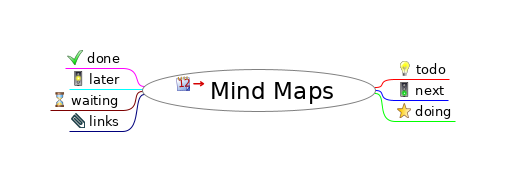
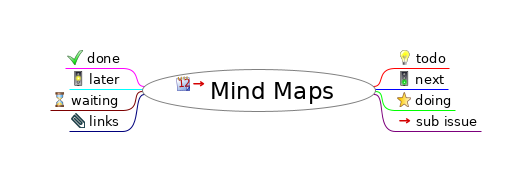
new mind map

Changed region(s): [[0.0891, 0.2762, 0.9208, 0.7459], [0.1188, 0.2762, 0.2376, 0.3591]]

diff --git a/index.html b/index.html
@@ -24,14 +24,15 @@
                };
           
           --></script></head><body><h1>Mind Maps</h1><div style="width:96%;  padding:2%;  margin-bottom:10px;  border: 0px;  text-align:center;  vertical-align:center;"><img src="index.html_files/image.png" style="margin-bottom:10px; &#9;border: 0px; &#9;text-align:center; &#9;vertical-align:center;" alt="Imagemap" usemap="#fm_imagemap" /></div><map name="fm_imagemap" id="fm_imagemap"><area shape="rect" href="#FMID_1894420573FM" alt="Mind Maps" title="Mind Maps" coords="142,69,376,112" />
-<area shape="rect" href="#FMID_359991860FM" alt="todo" title="todo" coords="395,61,449,79" />
-<area shape="rect" href="#FMID_1857399077FM" alt="next" title="next" coords="395,82,448,100" />
-<area shape="rect" href="#FMID_695904482FM" alt="doing" title="doing" coords="395,103,455,121" />
+<area shape="rect" href="#FMID_359991860FM" alt="todo" title="todo" coords="395,50,449,68" />
+<area shape="rect" href="#FMID_1857399077FM" alt="next" title="next" coords="395,71,448,89" />
+<area shape="rect" href="#FMID_695904482FM" alt="doing" title="doing" coords="395,92,455,110" />
+<area shape="rect" href="#FMID_902002559FM" alt="sub issue" title="sub issue" coords="395,113,481,131" />
 <area shape="rect" href="#FMID_433819245FM" alt="done" title="done" coords="65,50,123,68" />
 <area shape="rect" href="#FMID_848414105FM" alt="later" title="later" coords="69,71,123,89" />
 <area shape="rect" href="#FMID_1042692083FM" alt="waiting" title="waiting" coords="50,92,123,110" />
 <area shape="rect" href="#FMID_1823870673FM" alt="links" title="links" coords="69,113,123,131" />
 </map>
 
-<div class="node"><img src="index.html_files/hide.png" class="hideshow" alt="hide" onClick="toggle(&quot;N65543&quot;)" id="imgN65543" /><img src="index.html_files/icons/calendar.png" alt="calendar" /> <a id="FMID_1894420573FM" /><div class="nodecontent" style="color:#000000;font-size:150%;"><a href="index.html">Mind Maps</a> <a href="index.html"><img src="index.html_files/ilink.png" alt="User Link" style="border-width:0" /></a></div><div class="content" id="N65543"><div class="node"><img src="index.html_files/leaf.png" class="hideshow" alt="leaf" /><img src="index.html_files/icons/idea.png" alt="idea" /> <a id="FMID_359991860FM" /><div class="nodecontent" style="color:#000000;font-size:83%;">todo</div></div><div class="node"><img src="index.html_files/leaf.png" class="hideshow" alt="leaf" /><img src="index.html_files/icons/go.png" alt="go" /> <a id="FMID_1857399077FM" /><div class="nodecontent" style="color:#000000;font-size:83%;">next</div></div><div class="node"><img src="index.html_files/leaf.png" class="hideshow" alt="leaf" /><img src="index.html_files/icons/bookmark.png" alt="bookmark" /> <a id="FMID_695904482FM" /><div class="nodecontent" style="color:#000000;font-size:83%;">doing</div></div><div class="node"><img src="index.html_files/leaf.png" class="hideshow" alt="leaf" /><img src="index.html_files/icons/button_ok.png" alt="button_ok" /> <a id="FMID_433819245FM" /><div class="nodecontent" style="color:#000000;font-size:83%;">done</div></div><div class="node"><img src="index.html_files/leaf.png" class="hideshow" alt="leaf" /><img src="index.html_files/icons/prepare.png" alt="prepare" /> <a id="FMID_848414105FM" /><div class="nodecontent" style="color:#000000;font-size:83%;">later</div></div><div class="node"><img src="index.html_files/leaf.png" class="hideshow" alt="leaf" /><img src="index.html_files/icons/hourglass.png" alt="hourglass" /> <a id="FMID_1042692083FM" /><div class="nodecontent" style="color:#000000;font-size:83%;">waiting</div></div><div class="node"><img src="index.html_files/leaf.png" class="hideshow" alt="leaf" /><img src="index.html_files/icons/attach.png" alt="attach" /> <a id="FMID_1823870673FM" /><div class="nodecontent" style="color:#000000;font-size:83%;">links</div></div></div></div>
+<div class="node"><img src="index.html_files/hide.png" class="hideshow" alt="hide" onClick="toggle(&quot;N65543&quot;)" id="imgN65543" /><img src="index.html_files/icons/calendar.png" alt="calendar" /> <a id="FMID_1894420573FM" /><div class="nodecontent" style="color:#000000;font-size:150%;"><a href="index.html">Mind Maps</a> <a href="index.html"><img src="index.html_files/ilink.png" alt="User Link" style="border-width:0" /></a></div><div class="content" id="N65543"><div class="node"><img src="index.html_files/leaf.png" class="hideshow" alt="leaf" /><img src="index.html_files/icons/idea.png" alt="idea" /> <a id="FMID_359991860FM" /><div class="nodecontent" style="color:#000000;font-size:83%;">todo</div></div><div class="node"><img src="index.html_files/leaf.png" class="hideshow" alt="leaf" /><img src="index.html_files/icons/go.png" alt="go" /> <a id="FMID_1857399077FM" /><div class="nodecontent" style="color:#000000;font-size:83%;">next</div></div><div class="node"><img src="index.html_files/leaf.png" class="hideshow" alt="leaf" /><img src="index.html_files/icons/bookmark.png" alt="bookmark" /> <a id="FMID_695904482FM" /><div class="nodecontent" style="color:#000000;font-size:83%;">doing</div></div><div class="node"><img src="index.html_files/leaf.png" class="hideshow" alt="leaf" /><a id="FMID_902002559FM" /><div class="nodecontent" style="color:#000000;font-size:83%;"><a href="sub%20issue.html">sub issue</a> <a href="sub%20issue.html"><img src="index.html_files/ilink.png" alt="User Link" style="border-width:0" /></a></div></div><div class="node"><img src="index.html_files/leaf.png" class="hideshow" alt="leaf" /><img src="index.html_files/icons/button_ok.png" alt="button_ok" /> <a id="FMID_433819245FM" /><div class="nodecontent" style="color:#000000;font-size:83%;">done</div></div><div class="node"><img src="index.html_files/leaf.png" class="hideshow" alt="leaf" /><img src="index.html_files/icons/prepare.png" alt="prepare" /> <a id="FMID_848414105FM" /><div class="nodecontent" style="color:#000000;font-size:83%;">later</div></div><div class="node"><img src="index.html_files/leaf.png" class="hideshow" alt="leaf" /><img src="index.html_files/icons/hourglass.png" alt="hourglass" /> <a id="FMID_1042692083FM" /><div class="nodecontent" style="color:#000000;font-size:83%;">waiting</div></div><div class="node"><img src="index.html_files/leaf.png" class="hideshow" alt="leaf" /><img src="index.html_files/icons/attach.png" alt="attach" /> <a id="FMID_1823870673FM" /><div class="nodecontent" style="color:#000000;font-size:83%;">links</div></div></div></div>
 </body></html>

diff --git a/sub issue.html b/sub issue.html
@@ -25,7 +25,8 @@
           
           --></script></head><body><h1>sub issue</h1><div style="width:96%;  padding:2%;  margin-bottom:10px;  border: 0px;  text-align:center;  vertical-align:center;"><img src="sub%20issue.html_files/image.png" style="margin-bottom:10px; &#9;border: 0px; &#9;text-align:center; &#9;vertical-align:center;" alt="Imagemap" usemap="#fm_imagemap" /></div><map name="fm_imagemap" id="fm_imagemap"><area shape="rect" href="#FMID_482652535FM" alt="sub issue" title="sub issue" coords="50,50,239,93" />
 <area shape="rect" href="#FMID_282355099FM" alt="todo" title="todo" coords="258,60,292,78" />
+<area shape="rect" href="#FMID_699967637FM" alt="make rectangles clickable" title="make rectangles clickable" coords="311,58,489,76" />
 </map>
 
-<div class="node"><img src="sub%20issue.html_files/hide.png" class="hideshow" alt="hide" onClick="toggle(&quot;N65543&quot;)" id="imgN65543" /><a id="FMID_482652535FM" /><div class="nodecontent" style="color:#000000;font-size:150%;"><a href="index.html">sub issue</a> <a href="index.html"><img src="sub%20issue.html_files/ilink.png" alt="User Link" style="border-width:0" /></a></div><div class="content" id="N65543"><div class="node"><img src="sub%20issue.html_files/leaf.png" class="hideshow" alt="leaf" /><a id="FMID_282355099FM" /><div class="nodecontent" style="color:#000000;font-size:83%;">todo</div></div></div></div>
+<div class="node"><img src="sub%20issue.html_files/hide.png" class="hideshow" alt="hide" onClick="toggle(&quot;N65543&quot;)" id="imgN65543" /><a id="FMID_482652535FM" /><div class="nodecontent" style="color:#000000;font-size:150%;"><a href="index.html">sub issue</a> <a href="index.html"><img src="sub%20issue.html_files/ilink.png" alt="User Link" style="border-width:0" /></a></div><div class="content" id="N65543"><div class="node"><img src="sub%20issue.html_files/hide.png" class="hideshow" alt="hide" onClick="toggle(&quot;N66440&quot;)" id="imgN66440" /><a id="FMID_282355099FM" /><div class="nodecontent" style="color:#000000;font-size:83%;">todo</div><div class="content" id="N66440"><div class="node"><img src="sub%20issue.html_files/leaf.png" class="hideshow" alt="leaf" /><a id="FMID_699967637FM" /><div class="nodecontent" style="color:#000000;font-size:83%;">make rectangles clickable</div></div></div></div></div></div>
 </body></html>

diff --git a/index.mm b/index.mm
@@ -64,7 +64,7 @@
 </stylenode>
 </map_styles>
 </hook>
-<hook NAME="AutomaticEdgeColor" COUNTER="9" RULE="ON_BRANCH_CREATION"/>
+<hook NAME="AutomaticEdgeColor" COUNTER="13" RULE="ON_BRANCH_CREATION"/>
 <node TEXT="todo" POSITION="right" ID="ID_359991860" CREATED="1569784692611" MODIFIED="1569784692622">
 <icon BUILTIN="idea"/>
 <edge COLOR="#ff0000"/>
@@ -77,7 +77,7 @@
 <icon BUILTIN="bookmark"/>
 <edge COLOR="#00ff00"/>
 </node>
-<node TEXT="sub issue" POSITION="right" ID="ID_902002559" CREATED="1569784813380" MODIFIED="1569784818543">
+<node TEXT="sub issue" POSITION="right" ID="ID_902002559" CREATED="1569784813380" MODIFIED="1569784923631" LINK="sub%20issue.mm">
 <edge COLOR="#7c007c"/>
 </node>
 <node TEXT="done" POSITION="left" ID="ID_433819245" CREATED="1569784692637" MODIFIED="1569784692643">

diff --git a/sub issue.mm b/sub issue.mm
@@ -63,9 +63,10 @@
 </stylenode>
 </map_styles>
 </hook>
-<hook NAME="AutomaticEdgeColor" COUNTER="2" RULE="ON_BRANCH_CREATION"/>
+<hook NAME="AutomaticEdgeColor" COUNTER="3" RULE="ON_BRANCH_CREATION"/>
 <node TEXT="todo" POSITION="right" ID="ID_282355099" CREATED="1569784843105" MODIFIED="1569784845284">
 <edge COLOR="#ff0000"/>
+<node TEXT="make rectangles clickable" ID="ID_699967637" CREATED="1569784984002" MODIFIED="1569784993605"/>
 </node>
 </node>
 </map>
